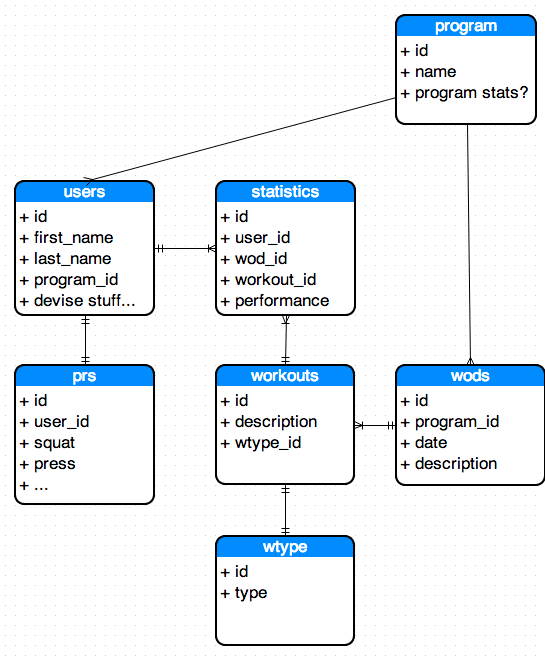
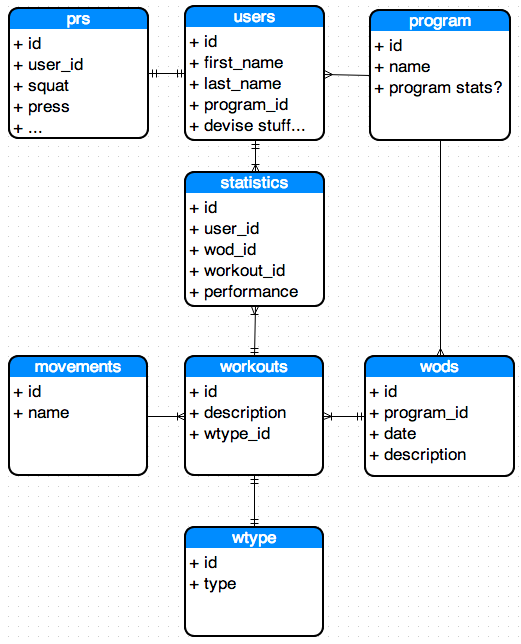
new database file

Changed region(s): [[0.0, 0.0, 1.0, 0.9938], [0.0, 0.0, 0.3071, 0.2174], [0.1536, 0.1863, 0.215, 0.2174]]

diff --git a/db/seeds.rb b/db/seeds.rb
@@ -16,7 +16,22 @@ programs = [{name: "Invictus Competition"}]
 users = [{first_name: "Brian", last_name: "C", email: "brianc@example.com", password: "password", password_confirmation: "password"},
          {first_name: "Cam", last_name: "S", email: "cams@example.com", password: "password", password_confirmation: "password"},
          {first_name: "Adam", last_name: "R", email: "adamr@example.com", password: "password", password_confirmation: "password"},
-         {first_name: "Beth", last_name: "R", email: "bethr@example.com", password: "password", password_confirmation: "password"}]
+         {first_name: "Beth", last_name: "R", email: "bethr@example.com", password: "password", password_confirmation: "password"},
+         {first_name: "Nora", last_name: "B", email: "norab@example.com", password: "password", password_confirmation: "password"},
+         {first_name: "Ming", last_name: "C", email: "mingc@example.com", password: "password", password_confirmation: "password"}]
+
+prs = [{back_squat: 390, front_squat: 350, overhead_squat: 270, clean: 305, snatch: 252, power_clean: 265, power_snatch: 200,
+        hang_clean: 270, hang_snatch: 255, split_jerk: 320, push_jerk: 285, push_press: 265, press: 205, dead_lift: 405},
+       {back_squat: 380, front_squat: 340, overhead_squat: 285, clean: 285, snatch: 220, power_clean: 265, power_snatch: 180,
+        hang_clean: 265, hang_snatch: 200, split_jerk: 310, push_jerk: 275, push_press: 245, press: 170, dead_lift: 415},
+       {back_squat: 460, front_squat: 410, overhead_squat: 270, clean: 335, snatch: 265, power_clean: 305, power_snatch: 225,
+        hang_clean: 300, hang_snatch: 250, split_jerk: 340, push_jerk: 290, push_press: 265, press: 200, dead_lift: 565},
+       {back_squat: 200, front_squat: 185, overhead_squat: 150, clean: 200, snatch: 160, power_clean: 150, power_snatch: 150,
+        hang_clean: 160, hang_snatch: 145, split_jerk: 200, push_jerk: 140, push_press: 120, press: 100, dead_lift: 285},
+       {back_squat: 160, front_squat: 160, overhead_squat: 130, clean: 160, snatch: 140, power_clean: 120, power_snatch: 100,
+        hang_clean: 140, hang_snatch: 110, split_jerk: 160, push_jerk: 130, push_press: 110, press: 80, dead_lift: 200},
+       {back_squat: 240, front_squat: 220, overhead_squat: 185, clean: 210, snatch: 170, power_clean: 180, power_snatch: 160,
+        hang_clean: 160, hang_snatch: 120, split_jerk: 200, push_jerk: 180, push_press: 140, press: 120, dead_lift: 300}]
 
 workout_types.each do |type|
   WorkoutType.create(type)
@@ -41,7 +56,7 @@ for i in 0..50
   end
 end
 
-users.each do |user|
+users.each_with_index do |user,i|
   user[:program_id] = Program.all.last.id
   holder = User.create(user)
   newpr = PersonalRecord.find_by(user_id: holder.id)

diff --git a/app/models/statistic.rb b/app/models/statistic.rb
@@ -31,7 +31,7 @@ class Statistic < ActiveRecord::Base
           #     data: [28, 48, 40]
           # }
           ]}
-    available_stats = Statistic.where(user_id: user.id)
+    available_stats = Statistic.where(user_id: user)
     available_stats.each do |s|
       data[:labels] << s.workout.wod.name
       data[:datasets][0][:data] << s.performance

diff --git a/app/controllers/users_controller.rb b/app/controllers/users_controller.rb
@@ -12,6 +12,7 @@ class UsersController < ApplicationController
       @to_complete = Statistic.build_to_complete(@available_workouts, @complete)
     end
     @statistic = Statistic.new
-    @front_squat_data = Statistic.get_fs_chart(current_user)
+    @front_squat_data = Statistic.get_fs_chart(params[:id])
+    binding.pry
   end
 end
